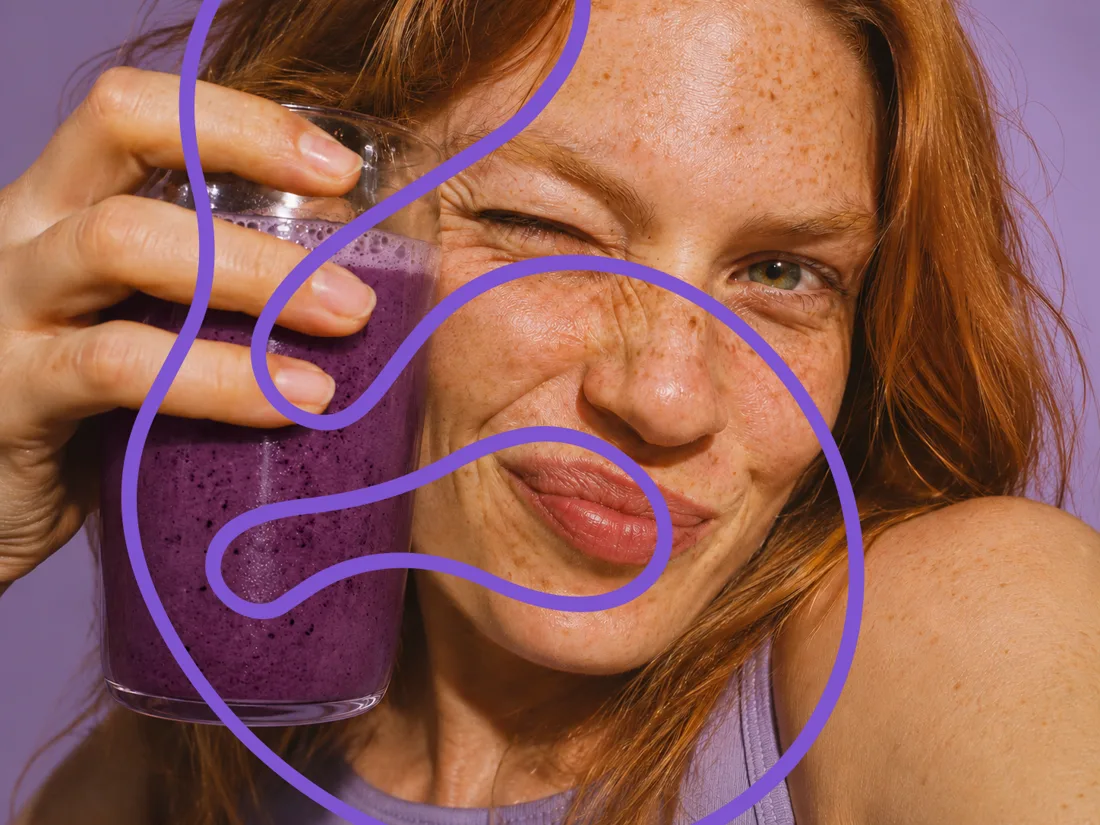
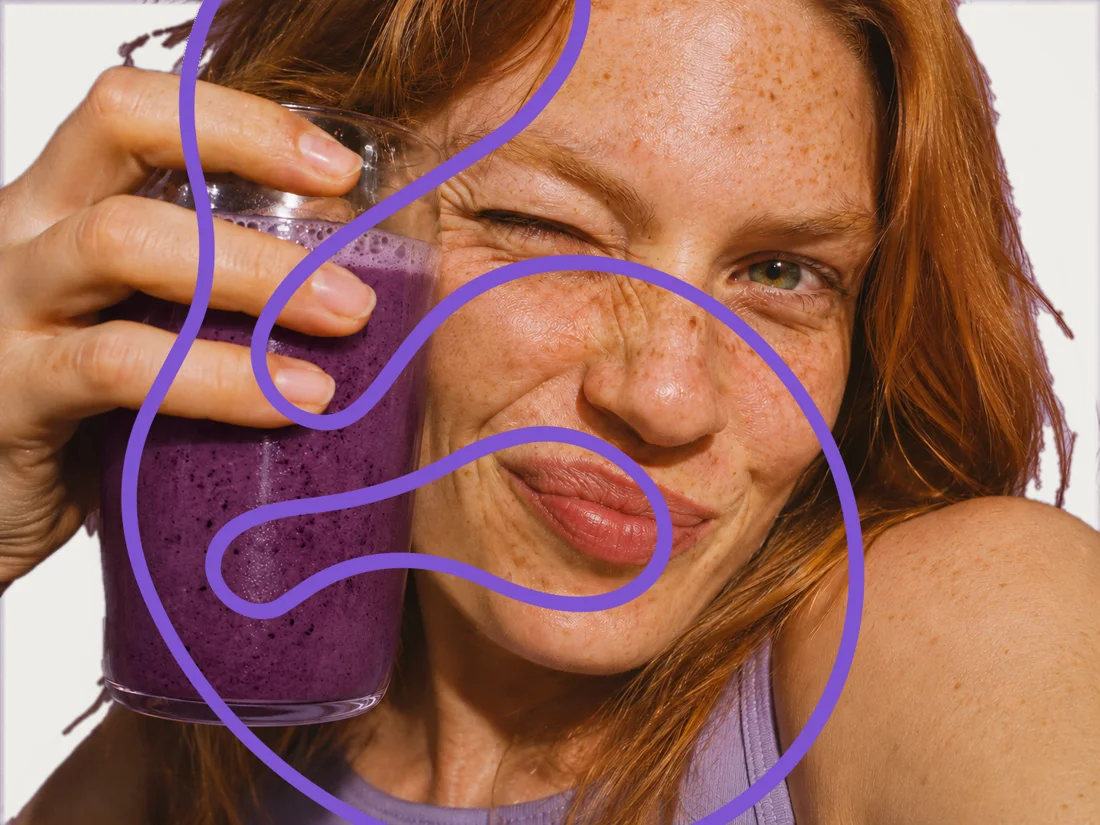
Первый экран: фон за девушкой — цвет фона приложения, шторка снизу в стиле блоков с градиентом (c9, по умолчанию); логотип вернулся
Claude-Session: https://claude.ai/code/session_01RTMWjvptAr6nAxD1iniajK

Changed region(s): [[0.8655, 0.0, 1.0, 0.6667], [0.0, 0.6364, 0.1236, 1.0], [0.0, 0.0, 0.2164, 0.2424]]

diff --git a/src/styles/screens.css b/src/styles/screens.css
@@ -679,3 +679,28 @@ button.onb-back { background: var(--btn-glass); border: 1px solid var(--line-2);
 .shell:has(.lay8) .welcome-btn.off { opacity: .5; }
 .shell:has(.lay8) .consent, .shell:has(.lay8) .consent a { color: var(--muted); }
 .lay8 .welcome-photo { height: calc(78% + 28px + var(--safe-top)); -webkit-mask-image: linear-gradient(180deg, #000 66%, transparent 96%); mask-image: linear-gradient(180deg, #000 66%, transparent 96%); }
+
+/* 9: фото со светлым фоном (стена перекрашена в фон приложения), шторка снизу во всю ширину — градиент как у сиреневых блоков (.g-lav) */
+.shell:has(.lay9) { background: linear-gradient(180deg, var(--bg-top) 0%, var(--bg-mid) 50%, var(--bg) 100%); }
+.lay9 .welcome-photo { height: calc(66% + 28px + var(--safe-top)); background-position: 30% 30%; -webkit-mask-image: none; mask-image: none; }
+.lay9::before { content: ''; position: absolute; z-index: 1; left: -16px; right: -16px; top: 60%; bottom: -300px; border-radius: 32px 32px 0 0;
+  background: radial-gradient(55% 45% at 50% 40%, #8A68DC 0%, rgba(138, 104, 220, 0) 100%), radial-gradient(70% 40% at 100% 70%, rgba(237, 229, 255, .3) 0%, rgba(237, 229, 255, 0) 70%), linear-gradient(160deg, #A68CF6 0%, #9B7FF2 100%);
+  box-shadow: inset 0 1px 0 rgba(255, 255, 255, .45); }
+.lay9 .welcome-logo { width: 84px; margin-top: -14px; filter: none; }
+.lay9 .welcome-text { position: absolute; left: 0; right: 0; top: calc(60% + 26px); margin: 0; }
+.lay9 .welcome-title { color: #FFFFFF; text-shadow: 0 1px 2px rgba(0, 0, 0, .1), 0 1px 12px rgba(0, 0, 0, .18); }
+.lay9 .wt-1, .lay9 .wt-2 { font-size: 40px; }
+.lay9 .welcome-sub { color: rgba(255, 255, 255, .92); margin-top: 10px; }
+.shell:has(.lay9) .welcome-btn, .shell:has(.lay9) .welcome-btn.off { background: var(--accent); color: var(--accent-ink); }
+.shell:has(.lay9) .welcome-btn.off { opacity: .55; }
+.shell:has(.lay9) .consent, .shell:has(.lay9) .consent a { color: rgba(255, 255, 255, .85); }
+.shell:has(.lay9) .checkbox { border-color: rgba(255, 255, 255, .75); border-width: 1.5px; }
+.shell:has(.lay9) .checkbox.on { background: #FFFFFF; border-color: #FFFFFF; color: #3A1F5C; }
+@media (max-height: 760px) {
+  .lay9 .welcome-photo { height: calc(58% + 28px + var(--safe-top)); }
+  .lay9::before { top: 52%; }
+  .lay9 .welcome-text { top: calc(52% + 20px); }
+  .lay9 .wt-1, .lay9 .wt-2 { font-size: 34px; }
+}
+.lay9 .welcome-logo { filter: brightness(0) invert(1) drop-shadow(0 1px 6px rgba(0, 0, 0, .25)); }
+@media (min-height: 761px) { .lay9 .welcome-photo { height: calc(70% + 28px + var(--safe-top)); } .lay9::before { top: 64%; } .lay9 .welcome-text { top: calc(64% + 26px); } }

diff --git a/src/views/onboarding.js b/src/views/onboarding.js
@@ -75,7 +75,7 @@ export function onboardingView(app) {
   };
 }
 
-/** Варианты первого экрана (для выбора): ?welcome=a | b | c, по умолчанию — c8.
+/** Варианты первого экрана (для выбора): ?welcome=a | b | c, по умолчанию — c9.
  *  t1 / t2 — две строки заголовка, accent — фиолетовое «за 14 дней» (в строке t2 или отдельной строкой). */
 const WELCOME = {
   a: { t1: 'Узнай себя', t2: 'изнутри', accent: 'за 14 дней', inline: true, art: 'glass', sub: 'Отмечай еду, воду и самочувствие, чтобы понять, как они связаны.', cta: 'Начать' },
@@ -93,16 +93,18 @@ WELCOME.c6 = { ...WELCOME.c, layout: 6 };
 WELCOME.c7 = { ...WELCOME.c, layout: 7 };
 // c8 — как остальные шаги: светлый фон, фото сверху уходит в фон, текст в сиреневом блоке .gcard.g-lav, лаймовая кнопка
 WELCOME.c8 = { ...WELCOME.c, layout: 8, badge: '', sub: 'О кишечнике принято молчать. Мы предпочитаем его понимать.' };
+// c9 — шторка снизу (как c6), в стиле блоков с градиентом (.g-lav); фото со светлым фоном приложения
+WELCOME.c9 = { ...WELCOME.c8, layout: 9 };
 
 function welcomeVariant() {
-  const v = (typeof location !== 'undefined' && new URLSearchParams(location.search).get('welcome')) || 'c8';
-  const key = WELCOME[v] ? v : 'c8', w = WELCOME[key];
+  const v = (typeof location !== 'undefined' && new URLSearchParams(location.search).get('welcome')) || 'c9';
+  const key = WELCOME[v] ? v : 'c9', w = WELCOME[key];
   return {
     ...w, cls: 'welcome fade-in ' + (w.art === 'photo' ? 'welcome-c' : 'welcome-' + key) + (w.layout ? ' lay lay' + w.layout : ''),
     glass: w.art === 'glass', contour: w.art === 'contour', photo: w.art === 'photo',
     // C — как главная: фото вместо 3D-кишечника, текст на фиолетовой стеклянной карточке (как «Комфорт за 7 дней»)
     textCls: 'welcome-text' + (w.art === 'photo' && !w.layout ? ' gcard g-glass welcome-glass' : '') + (w.layout === 8 ? ' gcard g-lav welcome-block' : ''),
-    showLogo: w.layout !== 8,
+    showLogo: true,
     inlineAccent: !!w.accent && w.inline, blockAccent: !!w.accent && !w.inline
   };
 }

diff --git a/src/templates/screens/onboarding.html b/src/templates/screens/onboarding.html
@@ -4,6 +4,8 @@
 <div class="onb-top">
   <sc-if value="{{canBack}}"><button class="icon-btn onb-back" onClick="{{back}}" aria-label="Назад"><svg width="18" height="18" viewBox="0 0 24 24" fill="none" stroke="currentColor" stroke-width="1.8" stroke-linecap="round" stroke-linejoin="round"><path d="M15 6l-6 6 6 6"></path></svg></button></sc-if>
   <sc-if value="{{noBack}}"><span class="onb-back"></span></sc-if>
+  <img class="wordmark" src="/brand/wordmark.svg" alt="{{appName}}">
+  <span class="onb-back"></span>
 </div>
 <div class="onb-progress" role="progressbar" aria-label="{{stepLabel}}"><sc-for list="{{progress}}" as="b"><span class="{{b.cls}}"></span></sc-for></div>
 </sc-if>
